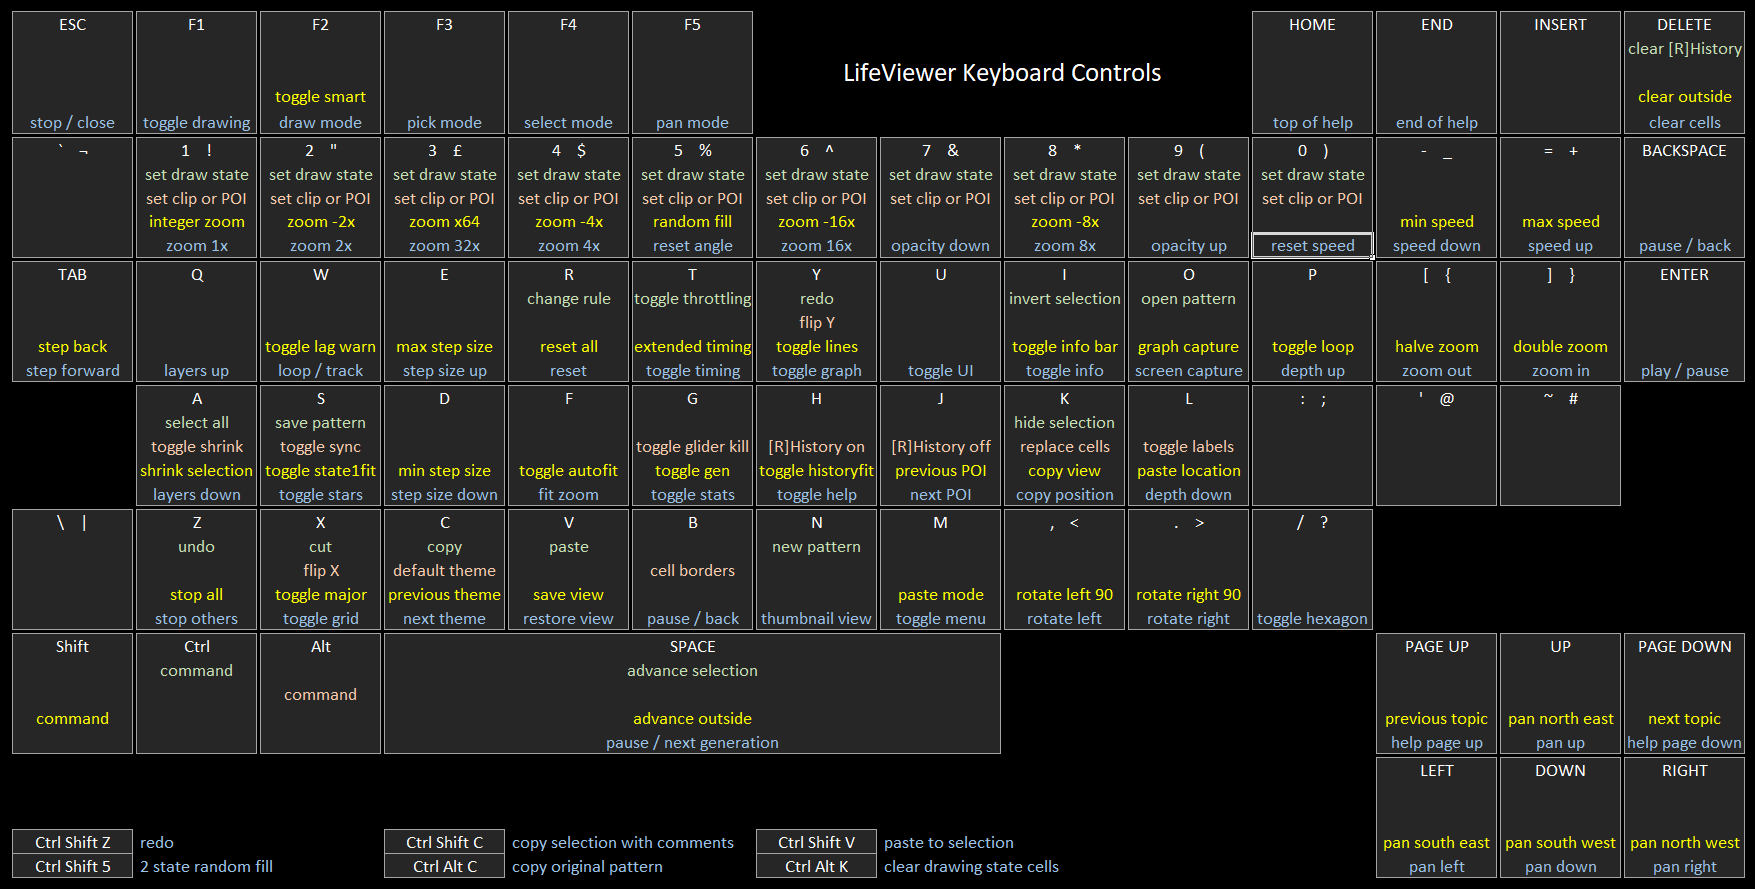
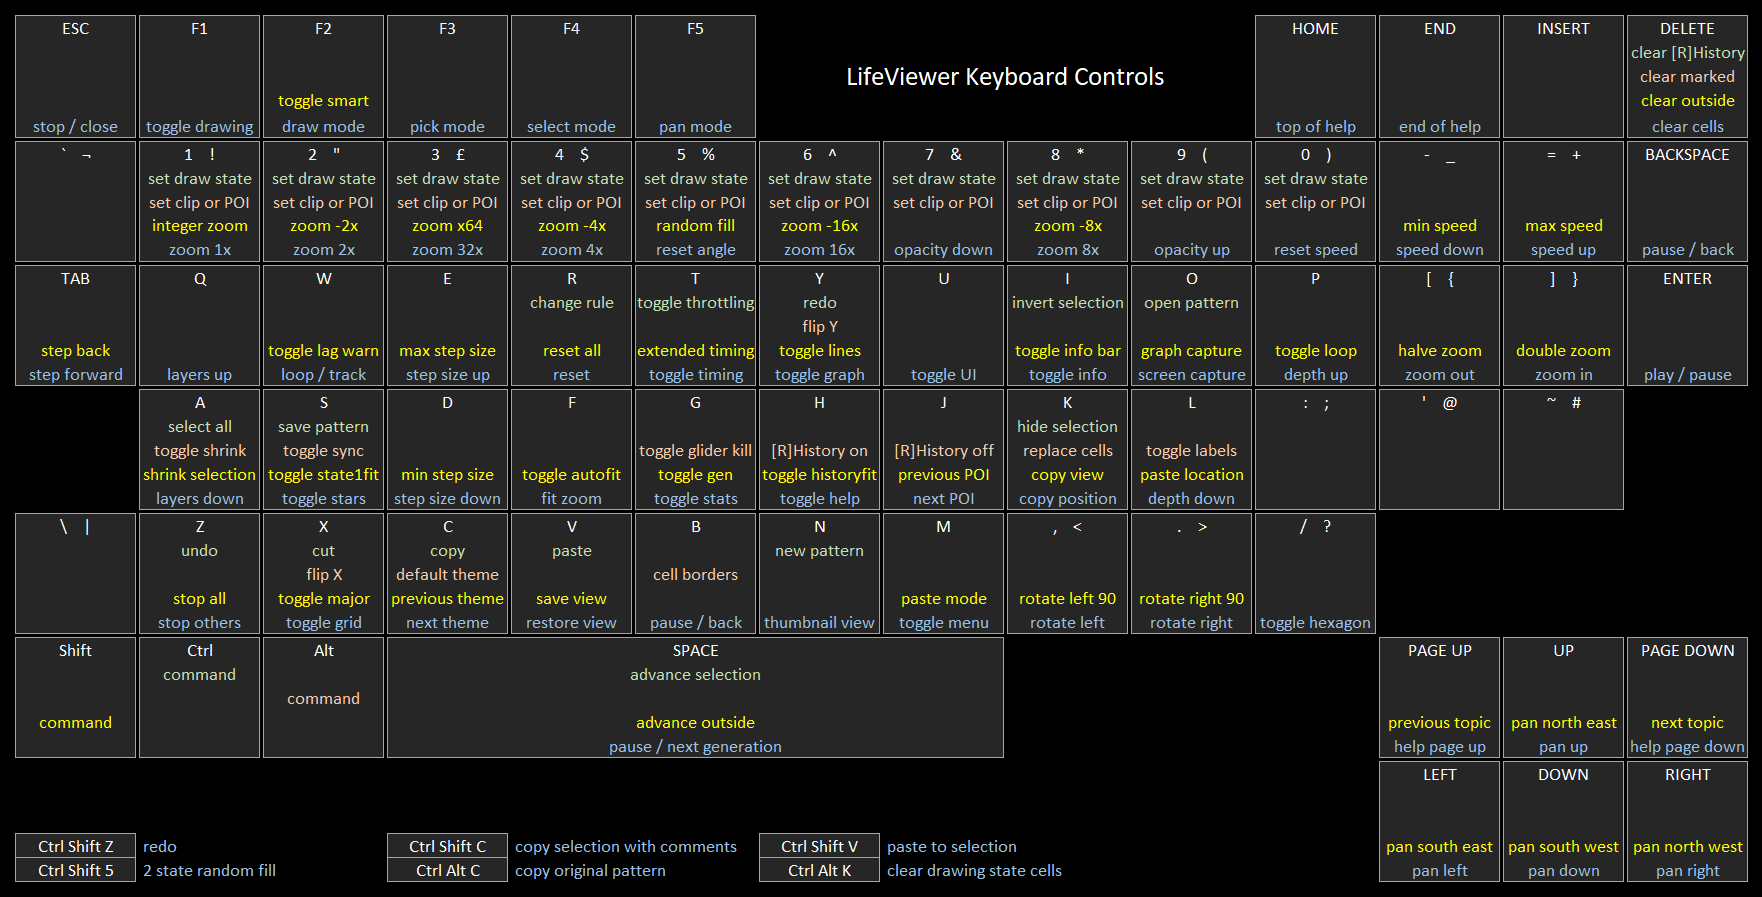
clear [R]History marked cells

diff --git a/js/keys.js b/js/keys.js
@@ -146,6 +146,11 @@
 					}
 				} else {
 					switch (keyCode) {
+					// Del for clear marked [R]History cells
+					case 46:
+						me.clearCells(me, true, true);
+						me.menuManager.notification.notify("Cleared [R]History marked cells", 15, 120, 15, true);
+						break;
 					// a for auto-shrink
 					case 65:
 						// toggle auto-shrink selection
@@ -586,12 +591,12 @@
 				// check for ctrl
 				if (event.ctrlKey) {
 					if (event.altKey) {
-						me.clearCells(me, false);
+						me.clearCells(me, false, false);
 						value = me.drawState;
 						if (me.engine.multiNumStates > 2) {
 							value = me.engine.multiNumStates - value;
 						}
-						me.menuManager.notification.notify("Cleared all " + me.getStateName(value) + " cells", 15, 120, 15, true);
+						me.menuManager.notification.notify("Cleared " + me.getStateName(value) + " cells", 15, 120, 15, true);
 					} else {
 						// remove selection
 						me.removeSelection(me);
@@ -1115,9 +1120,9 @@
 					}
 				} else {
 					if (event.ctrlKey) {
-						value = me.clearCells(me, event.ctrlKey);
+						value = me.clearCells(me, event.ctrlKey, false);
 						if (value) {
-							me.menuManager.notification.notify("Cleared all [R]History cells", 15, 120, 15, true);
+							me.menuManager.notification.notify("Cleared [R]History cells", 15, 120, 15, true);
 						}
 					}
 				}
@@ -1449,8 +1454,13 @@
 						if (me.isPasting || me.evolvingPaste) {
 							me.cancelPaste(me);
 						} else {
-							// close the popup Viewer
-							hideViewer();
+							// check for pick mode
+							if (me.pickMode) {
+								me.pickToggle.current = me.togglePick([false], true, me);
+							} else {
+								// close the popup Viewer
+								hideViewer();
+							}
 						}
 					}
 				} else {
@@ -1469,10 +1479,14 @@
 							if (me.isPasting || me.evolvingPaste) {
 								me.cancelPaste(me);
 							} else {
-								// check if playing
-								if (me.generationOn) {
-									// switch to pause
-									me.playList.current = me.viewPlayList(ViewConstants.modePause, true, me);
+								if (me.pickMode) {
+									me.pickToggle.current = me.togglePick([false], true, me);
+								} else {
+									// check if playing
+									if (me.generationOn) {
+										// switch to pause
+										me.playList.current = me.viewPlayList(ViewConstants.modePause, true, me);
+									}
 								}
 							}
 						}

diff --git a/js/lifeview.js b/js/lifeview.js
@@ -236,7 +236,7 @@
 		/** @const {string} */ versionName : "LifeViewer",
 
 		// build version
-		/** @const {number} */ versionBuild : 385,
+		/** @const {number} */ versionBuild : 386,
 
 		// author
 		/** @const {string} */ versionAuthor : "Chris Rowett",
@@ -6276,7 +6276,7 @@
 	};
 
 	// clear cells of the current pen colours
-	View.prototype.clearCells = function(me, ctrl) {
+	View.prototype.clearCells = function(me, ctrl, markedOnly) {
 		var x = 0,
 			y = 0,
 			state = 0,
@@ -6298,20 +6298,37 @@
 
 			// check for LifeHistory clear
 			if (me.engine.isLifeHistory && ctrl) {
-				// clear all LifeHistory states
-				for (y = historyBox.bottomY; y <= historyBox.topY; y += 1) {
-					for (x = historyBox.leftX; x <= historyBox.rightX; x += 1) {
-						state = me.engine.getState(x, y, false);
-						if (state > 1) {
-							me.setStateWithUndo(x, y, state & 1, true);
-							numCleared += 1;
+				// check for marked only
+				if (markedOnly) {
+					// clear marked states only
+					for (y = historyBox.bottomY; y <= historyBox.topY; y += 1) {
+						for (x = historyBox.leftX; x <= historyBox.rightX; x += 1) {
+							state = me.engine.getState(x, y, false);
+							if (state >= 3 && state <= 5) {
+								me.setStateWithUndo(x, y, state & 1, true);
+								numCleared += 1;
+							}
 						}
 					}
-				}
-				if (numCleared > 0) {
-					// update state 6 grid
-					this.engine.populateState6MaskFromColGrid();
-					me.afterEdit("clear [R]History cells");
+					if (numCleared > 0) {
+						me.afterEdit("clear [R]History marked cells");
+					}
+				} else {
+					// clear all LifeHistory states
+					for (y = historyBox.bottomY; y <= historyBox.topY; y += 1) {
+						for (x = historyBox.leftX; x <= historyBox.rightX; x += 1) {
+							state = me.engine.getState(x, y, false);
+							if (state > 1) {
+								me.setStateWithUndo(x, y, state & 1, true);
+								numCleared += 1;
+							}
+						}
+					}
+					if (numCleared > 0) {
+						// update state 6 grid
+						this.engine.populateState6MaskFromColGrid();
+						me.afterEdit("clear [R]History cells");
+					}
 				}
 			} else {
 				// clear all cells that match the current drawing state
